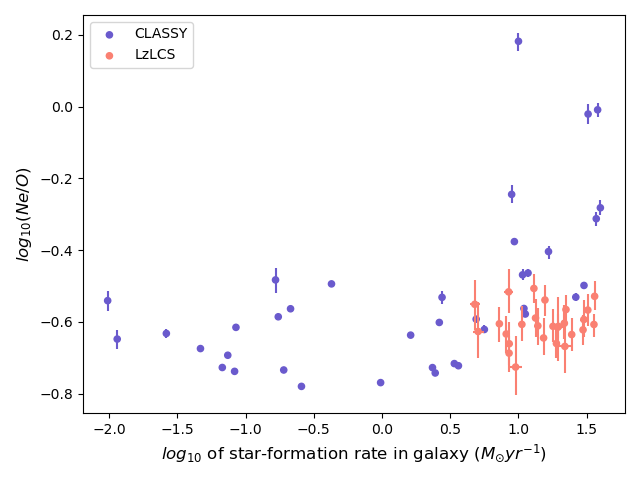
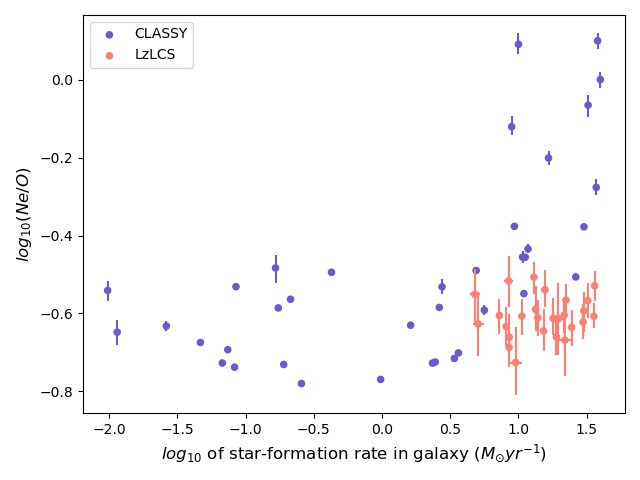
Updated plots with revised temperatures

diff --git a/Extra Abundances/AbundancesMain.py b/Extra Abundances/AbundancesMain.py
@@ -243,8 +243,11 @@ def CLASSY():
     T_e_s_iii_exp = 0.83 * T_e_o_iii + 1700
     T_e_o_ii_exp = 0.7 * T_e_o_iii + 3000 
 
-    T_e_s_iii = np.where(np.isnan(T_e_s_iii), T_e_s_iii_exp, T_e_s_iii)
-    T_e_o_ii = np.where(np.isnan(T_e_o_ii), T_e_o_ii_exp, T_e_o_ii)
+    #T_e_s_iii = np.where(np.isnan(T_e_s_iii), T_e_s_iii_exp, T_e_s_iii)
+    #T_e_o_ii = np.where(np.isnan(T_e_o_ii), T_e_o_ii_exp, T_e_o_ii)
+
+    T_e_s_iii = T_e_s_iii_exp
+    T_e_o_ii = T_e_o_ii_exp
 
     #Raw abundances (i.e. without errors)
 
